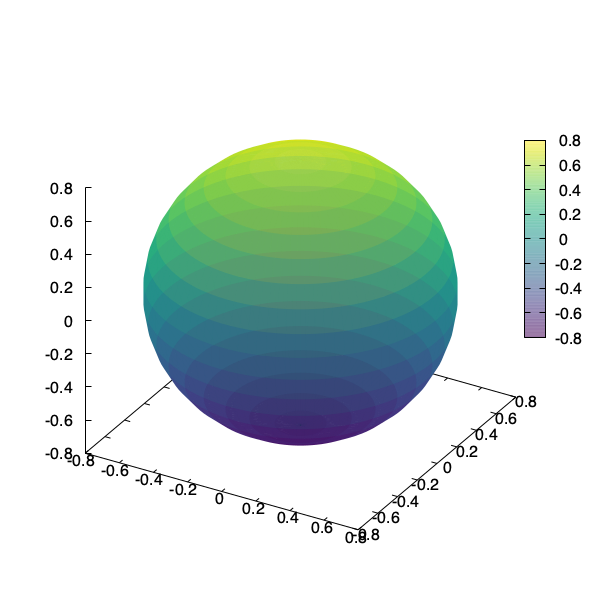
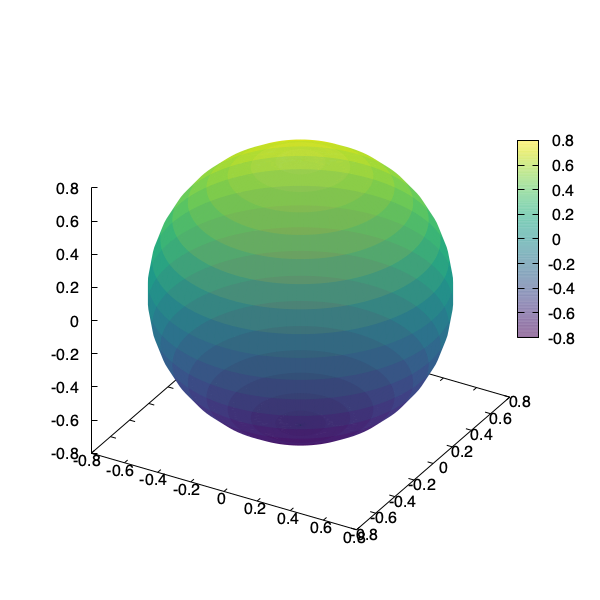
franklin-update

diff --git a/__site/menu2/index.html b/__site/menu2/index.html
@@ -1,7 +1,7 @@
 <!doctype html> <!-- Minimal Mistakes Jekyll Theme 4.16.4 by Michael Rose Copyright 2013-2019 Michael Rose - mademistakes.com | @mmistakes Free for personal and commercial use under the MIT license https://github.com/mmistakes/minimal-mistakes/blob/master/LICENSE --> <html lang=en > <meta charset=UTF-8 > <meta name=viewport  content="width=device-width, initial-scale=1"> <link rel=stylesheet  href="/gnuplot-examples/libs/katex/katex.min.css"> <link rel=stylesheet  href="/gnuplot-examples/libs/highlight/github.min.css"> <link rel=stylesheet  href="/gnuplot-examples/css/franklin.css"> <link rel=stylesheet  href="/gnuplot-examples/css/minimal-mistakes.css"> <link rel=stylesheet  href="/gnuplot-examples/css/adjust.css"> <!--[if IE ]> <style> /* old IE unsupported flexbox fixes */ .greedy-nav .site-title { padding-right: 3em; } .greedy-nav button { position: absolute; top: 0; right: 0; height: 100%; } </style> <![endif]--> <link rel=icon  href="/gnuplot-examples/assets/favicon.png"> <title>3d plots</title> <body class=layout--single > <div class=masthead > <div class=masthead__inner-wrap > <div class=masthead__menu > <nav id=site-nav  class=greedy-nav > <a class=site-title  href="/gnuplot-examples/">@gp & @gsp</a> <ul class=visible-links > <li class=masthead__menu-item ><a href="/gnuplot-examples/gallery/" >Gallery</a> <li class=masthead__menu-item ><a href="/gnuplot-examples/menu1/" >2D plots</a> <li class=masthead__menu-item ><a href="/gnuplot-examples/menu2/" >3D plots</a> <li class=masthead__menu-item ><a href="/gnuplot-examples/menu3/">Feature</a> </ul> <button class="greedy-nav__toggle hidden" type=button > <span class=visually-hidden >Toggle menu</span> <div class=navicon ></div> </button> <ul class="hidden-links hidden"></ul> </nav> </div> </div> </div> <div class=initial-content > <div id=main  role=main > <div class="sidebar sticky"> <div itemscope itemtype="https://schema.org/Person"> <!-- <div class=author__avatar > <img src="/gnuplot-examples/assets/minimal-mistakes/zenobia.png" alt="Septimia Zenobia" itemprop=image > </div> --> <!-- <div class=author__content > <h3 class=author__name  itemprop=name >Lazaro Alonso</h3> <p class=author__bio  itemprop=description >Probably not a commoner.</p> </div> --> <div class=author__urls-wrapper > <button class="btn btn--inverse">Follow</button> <ul class="author__urls social-icons"> <!-- <li itemprop=homeLocation  itemscope itemtype="https://schema.org/Place"> <i class="fas fa-fw fa-map-marker-alt" aria-hidden=true ></i> <span itemprop=name >Tierra</span> --> <li><a href="https://twitter.com/LazarusAlon" rel="nofollow noopener noreferrer"><i class="fab fa-fw fa-twitter-square" aria-hidden=true ></i> Twitter</a> <li><a href="https://github.com/gcalderone/Gnuplot.jl" rel="nofollow noopener noreferrer"><i class="fab fa-fw fa-github" aria-hidden=true ></i> GitHub</a> <a class=up-arrow  href="" data-toggle=tooltip  title="TO TOP"> <i class="fa fa-angle-double-up" style="font-size:36px;color:black" ></i> </a> </ul> </div> </div> </div> <div class=franklin-content > <div class=franklin-toc ><ol><li><a href="#basic_plot_from_data">Basic plot from data</a><li><a href="#3d_from_a_function_wire_and_surface_plots">3D from a function, wire and surface plots</a><li><a href="#countour_plot">Countour plot</a><li><a href="#lorenz_attractor">Lorenz attractor</a><li><a href="#heat_map">Heat map</a><li><a href="#tubes">Tubes</a><li><a href="#spheres">Spheres</a><li><a href="#torus">Torus</a></ol></div> </p> <h2 id=basic_plot_from_data ><a href="#basic_plot_from_data">Basic plot from data</a></h2> <pre><code class="julia hljs"><span class=hljs-keyword >using</span> Gnuplot
 x, y = [<span class=hljs-number >0</span>,<span class=hljs-number >1</span>,<span class=hljs-number >2</span>], [<span class=hljs-number >0</span>,<span class=hljs-number >1</span>,<span class=hljs-number >2</span>]
 Z = [<span class=hljs-number >10</span> <span class=hljs-number >10</span> <span class=hljs-number >10</span>; <span class=hljs-number >10</span> <span class=hljs-number >3</span> <span class=hljs-number >10</span>; <span class=hljs-number >10</span> <span class=hljs-number >2</span> <span class=hljs-number >10</span>]
-<span class=hljs-meta >@gsp</span> x y Z <span class=hljs-string >"w l lc 'red'"</span></code></pre> <img src="/gnuplot-examples/assets/menu2/code/plt3d_ex1.png" alt=""> <p>More options <pre><code class="julia hljs"><span class=hljs-keyword >using</span> Gnuplot
+<span class=hljs-meta >@gsp</span> x y Z <span class=hljs-string >"w l lc 'red'"</span> <span class=hljs-string >"set view equal xyz"</span></code></pre> <img src="/gnuplot-examples/assets/menu2/code/plt3d_ex1.png" alt=""> <p>More options <pre><code class="julia hljs"><span class=hljs-keyword >using</span> Gnuplot
 <span class=hljs-meta >@gsp</span> <span class=hljs-string >"unset key"</span> <span class=hljs-string >"set multi layout 2,2 title 'Multiplot title'"</span> :-
 <span class=hljs-meta >@gsp</span> :- <span class=hljs-number >1</span> x y Z <span class=hljs-string >"w linespoints pt 4 ps 2"</span> <span class=hljs-string >"set view 55, 65"</span> :-
 <span class=hljs-meta >@gsp</span> :- <span class=hljs-number >2</span> x y Z <span class=hljs-string >"w points pt 3 ps 3"</span> <span class=hljs-string >"set view 55, 65"</span> :-
@@ -60,7 +60,7 @@ x = [(<span class=hljs-number >1</span>-<span class=hljs-number >0.1</span>*cos(
 y = [(<span class=hljs-number >1</span>-<span class=hljs-number >0.1</span>*cos(v))*sin(u) <span class=hljs-keyword >for</span> u <span class=hljs-keyword >in</span> U, v <span class=hljs-keyword >in</span> V]
 z = [<span class=hljs-number >0.1</span>*(sin(v) + u/<span class=hljs-number >1.7</span> - <span class=hljs-number >10</span>) <span class=hljs-keyword >for</span> u <span class=hljs-keyword >in</span> U, v <span class=hljs-keyword >in</span> V]
 <span class=hljs-meta >@gsp</span> <span class=hljs-string >"set pm3d depthorder"</span> :-
-<span class=hljs-meta >@gsp</span> :- <span class=hljs-string >"set style fill transparent solid 0.7"</span>
+<span class=hljs-meta >@gsp</span> :- <span class=hljs-string >"set style fill transparent solid 0.7"</span> <span class=hljs-string >"set view equal xyz"</span>
 <span class=hljs-meta >@gsp</span> :- x y z <span class=hljs-string >"w pm3d notit"</span> <span class=hljs-string >"set xyplane -0.05"</span> palette(:ice)</code></pre> <img src="/gnuplot-examples/assets/menu2/code/tubes2.png" alt=""> <h2 id=spheres ><a href="#spheres">Spheres</a></h2> <pre><code class="julia hljs"><span class=hljs-keyword >using</span> Gnuplot
 Θ = LinRange(<span class=hljs-number >0</span>, <span class=hljs-number >2</span><span class=hljs-literal >π</span>, <span class=hljs-number >100</span>) <span class=hljs-comment ># 50</span>
 Φ = LinRange(<span class=hljs-number >0</span>, <span class=hljs-literal >π</span>, <span class=hljs-number >20</span>)
@@ -69,7 +69,7 @@ x = [r * cos(θ) * sin(ϕ)      <span class=hljs-keyword >for</span> θ <span cl
 y = [r * sin(θ) * sin(ϕ)      <span class=hljs-keyword >for</span> θ <span class=hljs-keyword >in</span> Θ, ϕ <span class=hljs-keyword >in</span> Φ]
 z = [r * cos(ϕ) <span class=hljs-keyword >for</span> θ <span class=hljs-keyword >in</span> Θ, ϕ <span class=hljs-keyword >in</span> Φ]
 <span class=hljs-meta >@gsp</span> <span class=hljs-string >"set pm3d depthorder"</span> :-
-<span class=hljs-meta >@gsp</span> :- x y z <span class=hljs-string >"w l"</span></code></pre> <img src="/gnuplot-examples/assets/menu2/code/sphere1.png" alt=""> <pre><code class="julia hljs"><span class=hljs-keyword >using</span> Gnuplot
+<span class=hljs-meta >@gsp</span> :- x y z <span class=hljs-string >"w l"</span> <span class=hljs-string >"set view equal xyz"</span></code></pre> <img src="/gnuplot-examples/assets/menu2/code/sphere1.png" alt=""> <pre><code class="julia hljs"><span class=hljs-keyword >using</span> Gnuplot
 Θ = LinRange(<span class=hljs-number >0</span>, <span class=hljs-number >2</span><span class=hljs-literal >π</span>, <span class=hljs-number >100</span>) <span class=hljs-comment ># 50</span>
 Φ = LinRange(<span class=hljs-number >0</span>, <span class=hljs-literal >π</span>, <span class=hljs-number >20</span>)
 r = <span class=hljs-number >0.8</span>
@@ -77,7 +77,7 @@ x = [r * cos(θ) * sin(ϕ)      <span class=hljs-keyword >for</span> θ <span cl
 y = [r * sin(θ) * sin(ϕ)      <span class=hljs-keyword >for</span> θ <span class=hljs-keyword >in</span> Θ, ϕ <span class=hljs-keyword >in</span> Φ]
 z = [r * cos(ϕ) <span class=hljs-keyword >for</span> θ <span class=hljs-keyword >in</span> Θ, ϕ <span class=hljs-keyword >in</span> Φ]
 <span class=hljs-meta >@gsp</span> <span class=hljs-string >"set pm3d depthorder"</span> :-
-<span class=hljs-meta >@gsp</span> :- <span class=hljs-string >"set style fill transparent solid 0.5"</span>
+<span class=hljs-meta >@gsp</span> :- <span class=hljs-string >"set style fill transparent solid 0.5"</span> <span class=hljs-string >"set view equal xyz"</span>
 <span class=hljs-meta >@gsp</span> :-  x y z <span class=hljs-string >"w pm3d notit"</span> <span class=hljs-string >"set xyplane 0"</span> palette(:viridis)</code></pre> <img src="/gnuplot-examples/assets/menu2/code/sphere2.png" alt=""> <pre><code class="julia hljs"><span class=hljs-keyword >using</span> Gnuplot
 Θ = LinRange(<span class=hljs-number >0</span>, <span class=hljs-number >2</span><span class=hljs-literal >π</span>, <span class=hljs-number >100</span>) <span class=hljs-comment ># 50</span>
 Φ = LinRange(<span class=hljs-number >0</span>, <span class=hljs-literal >π</span>, <span class=hljs-number >100</span>)
@@ -86,7 +86,7 @@ x = [r * cos(θ) * sin(ϕ) <span class=hljs-keyword >for</span> θ <span class=h
 y = [r * sin(θ) * sin(ϕ) <span class=hljs-keyword >for</span> θ <span class=hljs-keyword >in</span> Θ, ϕ <span class=hljs-keyword >in</span> Φ]
 z = [r * cos(ϕ) <span class=hljs-keyword >for</span> θ <span class=hljs-keyword >in</span> Θ, ϕ <span class=hljs-keyword >in</span> Φ]
 <span class=hljs-meta >@gsp</span> <span class=hljs-string >"set pm3d depthorder"</span> :-
-<span class=hljs-meta >@gsp</span> :- <span class=hljs-string >"set style fill solid 1.0 noborder"</span>
+<span class=hljs-meta >@gsp</span> :- <span class=hljs-string >"set style fill solid 1.0 noborder"</span> <span class=hljs-string >"set view equal xyz"</span>
 <span class=hljs-meta >@gsp</span> :- <span class=hljs-string >"set pm3d lighting primary 0.5 specular 0.6"</span>
 <span class=hljs-meta >@gsp</span> :-  x y z <span class=hljs-string >"w pm3d notit"</span> <span class=hljs-string >"set xyplane 0"</span> palette(:viridis)</code></pre> <img src="/gnuplot-examples/assets/menu2/code/sphere3.png" alt=""> <pre><code class="julia hljs"><span class=hljs-keyword >using</span> Gnuplot
 Θ = LinRange(<span class=hljs-number >0</span>, <span class=hljs-number >2</span><span class=hljs-literal >π</span>, <span class=hljs-number >100</span>) <span class=hljs-comment ># 50</span>
@@ -97,7 +97,7 @@ y = [r * sin(θ) * sin(ϕ) <span class=hljs-keyword >for</span> θ <span class=h
 z = [r * cos(ϕ) <span class=hljs-keyword >for</span> θ <span class=hljs-keyword >in</span> Θ, ϕ <span class=hljs-keyword >in</span> Φ]
 
 <span class=hljs-meta >@gsp</span> <span class=hljs-string >"set pm3d depthorder"</span> :-
-<span class=hljs-meta >@gsp</span> :- <span class=hljs-string >"set style fill solid 1.0 noborder"</span>
+<span class=hljs-meta >@gsp</span> :- <span class=hljs-string >"set style fill solid 1.0 noborder"</span> <span class=hljs-string >"set view equal xyz"</span>
 <span class=hljs-meta >@gsp</span> :- <span class=hljs-string >"set format ''"</span>
 <span class=hljs-meta >@gsp</span> :- <span class=hljs-string >"set pm3d lighting primary 0.5 specular 0.6"</span>
 <span class=hljs-meta >@gsp</span> :- <span class=hljs-string >"unset key"</span> <span class=hljs-string >"set multi layout 2,2 title 'Lighting colors'"</span> :-
@@ -136,7 +136,7 @@ bgcolor = bgcp1*bgcp2
 <span class=hljs-meta >@gsp</span> :- <span class=hljs-string >"set style fill solid 1.0"</span>
 <span class=hljs-meta >@gsp</span> :- <span class=hljs-string >"set pm3d lighting primary 0.35 specular 0.2"</span>
 <span class=hljs-meta >@gsp</span> :- x y z <span class=hljs-string >"w pm3d notit"</span> palette(:Wistia) <span class=hljs-string >"set view 108,2"</span>
-<span class=hljs-meta >@gsp</span> :- <span class=hljs-string >"unset border"</span> <span class=hljs-string >"set xyplane 0"</span>
+<span class=hljs-meta >@gsp</span> :- <span class=hljs-string >"unset border"</span> <span class=hljs-string >"set xyplane 0"</span> <span class=hljs-string >"set view equal xyz"</span>
 <span class=hljs-meta >@gsp</span> :- <span class=hljs-string >"unset tics"</span>
 <span class=hljs-meta >@gsp</span> :- <span class=hljs-string >"unset colorbox"</span>
 <span class=hljs-meta >@gsp</span> :- bgcolor</code></pre> <img src="/gnuplot-examples/assets/menu2/code/torus2.png" alt=""> <pre><code class="julia hljs"><span class=hljs-keyword >using</span> Gnuplot
@@ -150,7 +150,7 @@ x = [<span class=hljs-number >1</span> + cos(u) + r * cos(u) * cos(v)  <span cla
 y = [r * sin(v)                        <span class=hljs-keyword >for</span> u <span class=hljs-keyword >in</span> U, v <span class=hljs-keyword >in</span> V]
 z = [sin(u) + r * sin(u) * cos(v)      <span class=hljs-keyword >for</span> u <span class=hljs-keyword >in</span> U, v <span class=hljs-keyword >in</span> V]
 <span class=hljs-meta >@gsp</span> <span class=hljs-string >"set pm3d depthorder"</span>
-<span class=hljs-meta >@gsp</span> :- <span class=hljs-string >"set style fill transparent solid 0.5"</span> 
+<span class=hljs-meta >@gsp</span> :- <span class=hljs-string >"set style fill transparent solid 0.5"</span>
 <span class=hljs-meta >@gsp</span> :- <span class=hljs-string >"set pm3d lighting primary 0.05 specular 0.2"</span>
 <span class=hljs-meta >@gsp</span> :- x y z <span class=hljs-string >"w l palette notit"</span> palette(:dense) <span class=hljs-string >"set view 108,2"</span>
 <span class=hljs-meta >@gsp</span> :- <span class=hljs-string >"unset border"</span> <span class=hljs-string >"set xyplane 0"</span>

diff --git a/__site/css/franklin.css b/__site/css/franklin.css
@@ -1,1 +1,1 @@
-@charset "utf-8"; html{font-family:Helvetica,Arial,sans-serif;font-size:17px;color:#1c1c1c}.franklin-content .row{display:block}.franklin-content .left{float:left;margin-right:15px}.franklin-content .right{float:right}.franklin-content .container img{width:auto;padding-left:0;border-radius:10px}.franklin-content .footnote{position:relative;top:-0.5em;font-size:70%}.franklin-content .page-foot a{text-decoration:none;color:#a6a2a0;text-decoration:underline}.page-foot{font-size:80%;font-family:Arial,serif;color:#a6a2a0;text-align:center;margin-top:6em;border-top:1px solid lightgrey;padding-top:2em;margin-bottom:4em}.franklin-content{position:relative;padding-left:12.5%;padding-right:2.5%;line-height:1.35em}@media (min-width:940px){.franklin-content{width:705px;margin-left:auto;margin-right:auto}}@media (max-width:480px){.franklin-content{padding-left:6%;padding-right:6%}}.franklin-content h1{font-size:24px}.franklin-content h2{font-size:22px}.franklin-content h3{font-size:20px}.franklin-content h1,h2,h3,h4,h5,h6{text-align:left}.franklin-content h1{padding-bottom:.5em;border-bottom:3px double lightgrey;margin-top:1.5em;margin-bottom:1em}.franklin-content h2{padding-bottom:.3em;border-bottom:1px solid lightgrey;margin-top:2em;margin-bottom:1em}.franklin-content h1 a{color:inherit}.franklin-content h1 a:hover{text-decoration:none}.franklin-content h2 a{color:inherit}.franklin-content h2 a:hover{text-decoration:none}.franklin-content h3 a{color:inherit}.franklin-content h3 a:hover{text-decoration:none}.franklin-content h4 a{color:inherit}.franklin-content h4 a:hover{text-decoration:none}.franklin-content h5 a{color:inherit}.franklin-content h5 a:hover{text-decoration:none}.franklin-content h6 a{color:inherit}.franklin-content h6 a:hover{text-decoration:none}.franklin-content table{margin-left:auto;margin-right:auto;border-collapse:collapse;text-align:center}.franklin-content th,td{padding:10px;border:1px solid black}.franklin-content blockquote{background:#eee;border-left:7px solid #a8a8a8;margin:1.5em 10px;padding:.5em 10px;font-style:italic}.franklin-content blockquote p{display:inline}.franklin-content li p{margin:10px 0}.franklin-content a{color:#004de6;text-decoration:none}.franklin-content a:hover{text-decoration:underline}.franklin-content .eqref a{color:green}.franklin-content .bibref a{color:green}.franklin-content sup{font-size:70%;vertical-align:super;line-height:0}.franklin-content table.fndef{margin:0;margin-bottom:10px}.franklin-content .fndef tr,td{padding:0;border:0;text-align:left}.franklin-content .fndef tr{border-left:2px solid lightgray}.franklin-content .fndef td.fndef-backref{vertical-align:top;font-size:70%;padding-left:5px}.franklin-content .fndef td.fndef-content{font-size:80%;padding-left:10px}.franklin-content img{width:75%;text-align:center;padding-left:15%}.franklin-content img.one{width:100%;text-align:center;padding-left:5%}.franklin-content .img-small img{width:90%;text-align:center;padding-left:10%}body{counter-reset:eqnum}.katex{font-size:1em !important}.katex-display .katex{display:inline-block}.katex-display::after{counter-increment:eqnum;content:"(" counter(eqnum) ")";position:relative;float:right;padding-right:5px}code{background-color:rgba(27,31,35,0.05);padding:.1em .2em;border-radius:2px;font-size:90%}.hljs{font-size:90%;line-height:1.35em;border-radius:10px}.hljs-meta,.hljs-metas,.hljs-metap{font-weight:bold}.hljs-meta{color:#19b333}.hljs-metas{color:red}.hljs-metap{color:#3383e7}.franklin-content .colbox-blue{background-color:#EEF3F5;padding-top:5px;padding-right:10px;padding-left:10px;padding-bottom:5px;margin-left:5px;margin-top:5px;margin-bottom:5px;border-radius:0 10px 10px 0;border-left:5px solid #4C9CF1}
+@charset "utf-8";html{font-family:Helvetica,Arial,sans-serif;font-size:17px;color:#1c1c1c}.franklin-content .row{display:block}.franklin-content .left{float:left;margin-right:15px}.franklin-content .right{float:right}.franklin-content .container img{width:auto;padding-left:0;border-radius:10px}.franklin-content .footnote{position:relative;top:-0.5em;font-size:70%}.franklin-content .page-foot a{text-decoration:none;color:#a6a2a0;text-decoration:underline}.page-foot{font-size:80%;font-family:Arial,serif;color:#a6a2a0;text-align:center;margin-top:6em;border-top:1px solid lightgrey;padding-top:2em;margin-bottom:4em}.franklin-content{position:relative;padding-left:12.5%;padding-right:2.5%;line-height:1.35em}@media (min-width:940px){.franklin-content{width:705px;margin-left:auto;margin-right:auto}}@media (max-width:480px){.franklin-content{padding-left:6%;padding-right:6%}}.franklin-content h1{font-size:24px}.franklin-content h2{font-size:22px}.franklin-content h3{font-size:20px}.franklin-content h1,h2,h3,h4,h5,h6{text-align:left}.franklin-content h1{padding-bottom:.5em;border-bottom:3px double lightgrey;margin-top:1.5em;margin-bottom:1em}.franklin-content h2{padding-bottom:.3em;border-bottom:1px solid lightgrey;margin-top:2em;margin-bottom:1em}.franklin-content h1 a{color:inherit}.franklin-content h1 a:hover{text-decoration:none}.franklin-content h2 a{color:inherit}.franklin-content h2 a:hover{text-decoration:none}.franklin-content h3 a{color:inherit}.franklin-content h3 a:hover{text-decoration:none}.franklin-content h4 a{color:inherit}.franklin-content h4 a:hover{text-decoration:none}.franklin-content h5 a{color:inherit}.franklin-content h5 a:hover{text-decoration:none}.franklin-content h6 a{color:inherit}.franklin-content h6 a:hover{text-decoration:none}.franklin-content table{margin-left:auto;margin-right:auto;border-collapse:collapse;text-align:center}.franklin-content th,td{padding:10px;border:1px solid black}.franklin-content blockquote{background:#eee;border-left:7px solid #a8a8a8;margin:1.5em 10px;padding:.5em 10px;font-style:italic}.franklin-content blockquote p{display:inline}.franklin-content li p{margin:10px 0}.franklin-content a{color:#004de6;text-decoration:none}.franklin-content a:hover{text-decoration:underline}.franklin-content .eqref a{color:green}.franklin-content .bibref a{color:green}.franklin-content sup{font-size:70%;vertical-align:super;line-height:0}.franklin-content table.fndef{margin:0;margin-bottom:10px}.franklin-content .fndef tr,td{padding:0;border:0;text-align:left}.franklin-content .fndef tr{border-left:2px solid lightgray}.franklin-content .fndef td.fndef-backref{vertical-align:top;font-size:70%;padding-left:5px}.franklin-content .fndef td.fndef-content{font-size:80%;padding-left:10px}.franklin-content img{width:75%;text-align:center;padding-left:15%}.franklin-content img.one{width:100%;text-align:center;padding-left:5%}.franklin-content .img-small img{width:90%;text-align:center;padding-left:10%}body{counter-reset:eqnum}.katex{font-size:1em !important}.katex-display .katex{display:inline-block}.katex-display::after{counter-increment:eqnum;content:"(" counter(eqnum) ")";position:relative;float:right;padding-right:5px}code{background-color:rgba(27,31,35,0.05);padding:.1em .2em;border-radius:2px;font-size:90%}.hljs{font-size:90%;line-height:1.35em;border-radius:10px}.hljs-meta,.hljs-metas,.hljs-metap{font-weight:bold}.hljs-meta{color:#19b333}.hljs-metas{color:red}.hljs-metap{color:#3383e7}.franklin-content .colbox-blue{background-color:#EEF3F5;padding-top:5px;padding-right:10px;padding-left:10px;padding-bottom:5px;margin-left:5px;margin-top:5px;margin-bottom:5px;border-radius:0 10px 10px 0;border-left:5px solid #4C9CF1}

diff --git a/__site/menu3/index.html b/__site/menu3/index.html
@@ -123,11 +123,8 @@ tempo = sol.t
 <span class=hljs-comment ># animation</span>
 <span class=hljs-meta >@gsp</span> :- <span class=hljs-string >"i=2"</span>
 <span class=hljs-meta >@gsp</span> :- x y z tempo <span class=hljs-string >"every ::1::i w l notit lc palette"</span> :-
-frame = <span class=hljs-number >2</span>
-<span class=hljs-keyword >for</span> i <span class=hljs-keyword >in</span> <span class=hljs-number >2</span>:<span class=hljs-number >40</span>:length(x)
-  <span class=hljs-keyword >global</span> frame
-  <span class=hljs-meta >@gsp</span> :- frame <span class=hljs-string >"i=<span class=hljs-variable >$i</span>"</span> <span class=hljs-string >"replot"</span> :-
-  frame += <span class=hljs-number >1</span>
+<span class=hljs-keyword >for</span> frame <span class=hljs-keyword >in</span> <span class=hljs-number >2</span>:<span class=hljs-number >40</span>:length(x)
+  <span class=hljs-meta >@gsp</span> :- frame <span class=hljs-string >"i=<span class=hljs-variable >$frame</span>"</span> <span class=hljs-string >"replot"</span> :-
 <span class=hljs-keyword >end</span>
 <span class=hljs-meta >@gsp</span> <span class=hljs-comment ># display animation</span>
 save(term=<span class=hljs-string >"gif animate size 1000,800 delay 1"</span>, output=<span class=hljs-string >"lorenzAnim.gif"</span>)</code></pre> <img src="/gnuplot-examples/assets/menu3/code/lorenzAnim.gif" alt=""> <div class=page-foot > <div class=copyright > &copy; Lazaro Alonso. Last modified: April 10, 2020. Website built with <a href="https://github.com/tlienart/Franklin.jl">Franklin.jl</a>. </div> </div> </div> </div> </div> <div class=page__footer > <footer> <div class=page__footer-follow > <ul class=social-icons > <!-- <li><strong>Follow:</strong> <li><a href="https://twitter.com/mmistakes" rel="nofollow noopener noreferrer"><i class="fab fa-fw fa-twitter-square" aria-hidden=true ></i> Twitter</a> --> <li><a href="https://github.com/gcalderone/Gnuplot.jl" rel="nofollow noopener noreferrer"><i class="fab fa-fw fa-github" aria-hidden=true ></i> GitHub</a> <a class=up-arrow  href="" data-toggle=tooltip  title="TO TOP"> <i class="fa fa-angle-double-up" style="font-size:36px;color:black" ></i> </a> </ul> </div> <div class=page__footer-copyright >&copy; Lazaro Alonso. Powered by <a href="https://github.com/tlienart/Franklin.jl">Franklin</a> &amp; <a href="https://mademistakes.com/work/minimal-mistakes-jekyll-theme/" rel=nofollow >Minimal Mistakes</a>. </div> </footer> </div> <script src="/gnuplot-examples/libs/minimal-mistakes/main.min.js"></script> <script defer src="https://use.fontawesome.com/releases/v5.8.2/js/all.js" integrity="sha384-DJ25uNYET2XCl5ZF++U8eNxPWqcKohUUBUpKGlNLMchM7q4Wjg2CUpjHLaL8yYPH" crossorigin=anonymous ></script>
